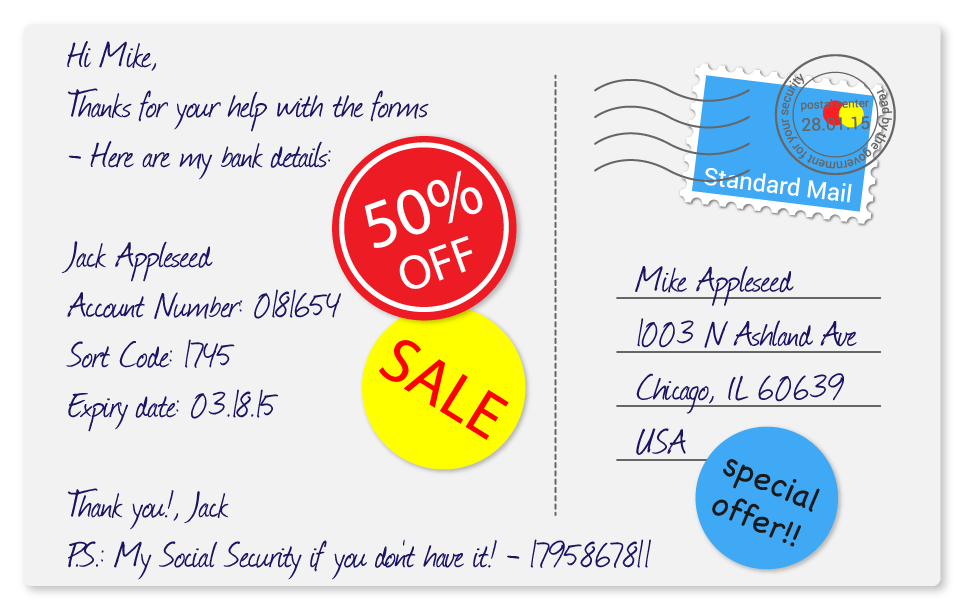
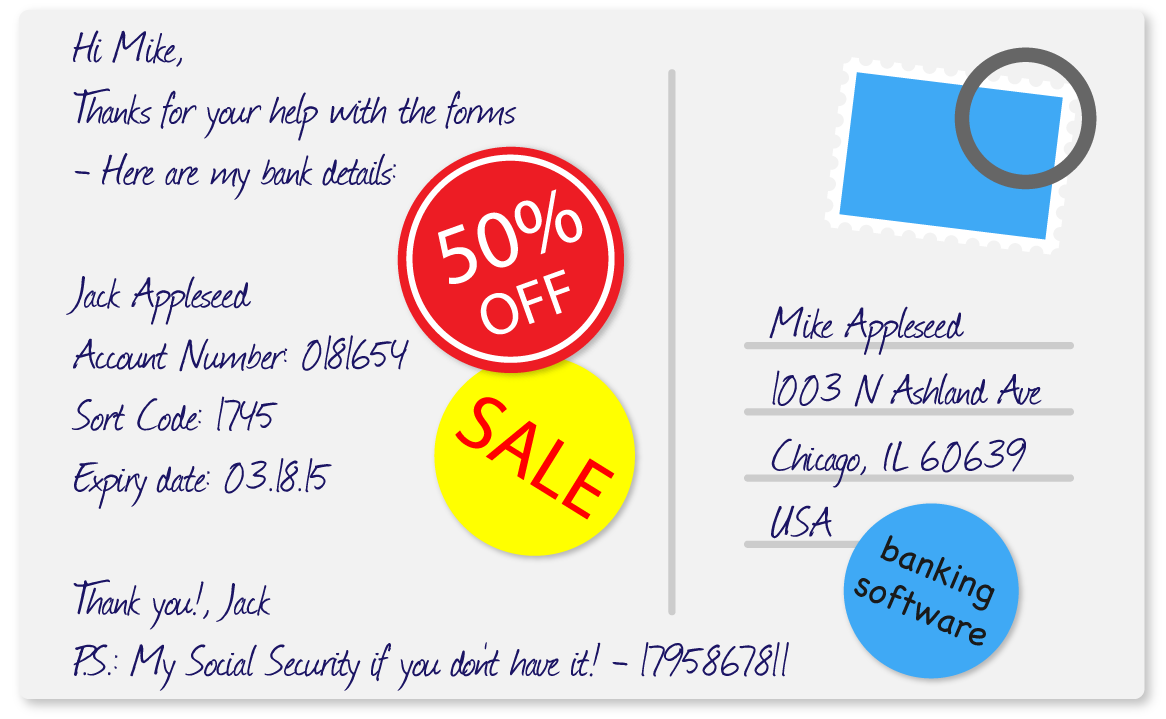
today's commit
changed old way vs new way
changed all of the px enclosings to em.
moved a bit of text from the css file towards the html file

diff --git a/index.html b/index.html
@@ -39,13 +39,13 @@
             <a href="press"><p>"Lavaboom launches Zero-knowledge email provider" - Russia Today</p></a>
           </div>
           <div class="slide">
-            <a href="press">"Lavaboom will die Verschlüsselung von E-Mails erleichtern" - Deutsche Startups</a>
+            <a href="https://press.lavaboom.com">"Lavaboom will die Verschlüsselung von E-Mails erleichtern" - Deutsche Startups</a>
           </div>
           <div class="slide">
-            <a href="press">"Email Encryption: Not So Simple" - Mozilla Open Standard</a>
+            <a href="https://press.lavaboom.com">"Email Encryption: Not So Simple" - Mozilla Open Standard</a>
           </div>
           <div class="slide">
-            <a href="press">"For German, Swiss Privacy Start-Ups, a Post-Snowden Boom" - Wall St. Journal</a>
+            <a href="https://press.lavaboom.com">"For German, Swiss Privacy Start-Ups, a Post-Snowden Boom" - Wall St. Journal</a>
           </div>
     </div>
     <a class="arrow-next col-xs-3"><img class="arrow" src="img/next-arrow.png"></a>
@@ -63,20 +63,17 @@
 
 
 <div class="benefit-container col-xs-12">
-  <div class="benefit-text-div col-xs-12 row">
-    <img alt src="img/ovsn_v.png" class="benefit-img">
+  <div class="benefit-text-div col-xs-12 row"><div class="col-md-4" id="title-h2-white-left">The old way</div><div class="col-md-4"></div><div class="col-md-4" id="title-h2-white-right">The Lavaboom way</div>
+  <img src="img/postcard.png" alt="postcard" class="benefit-img col-md-4" /><img src="img/vs-vertical.png" alt="vs" class="benefit-img col-md-4" /><img src="img/envelope.png" alt="envelope" class="benefit-img col-md-4"/>
   </div>
 </div>
 
 
-<div class="landing-container solution-container col-xs-12">
+<div class="landing-container solution-container col-xs-6">
   <div class="Solution-intro col-xs-12">
     <h1>Encryption made easy</h1>
     <p>The biggest problem we face with asymmetric encryption is that it requires some technical ability to use it effectively. We believe in solving this problem, making encrypting email end-2-end seamless while remaining secure.</p>
     <a href="features"><div class="solution-button clear-blue-button button">View Features</div></a>
-  </div>
-  <div class="solution-div hero-image-div col-xs-12">
-    <img class="solution">
   </div>
 </div>
 

diff --git a/assets/css/style.css b/assets/css/style.css
@@ -751,38 +751,40 @@ li.party-link:hover {
   color:#000;
 }
 
-#title-h2-white {
+#title-h2-white-right {
   text-align: center;
+  position: middle;
   color: #fff;
-  font-size: 16px;
-  text-transform: uppercase;
+  font-size: 2.6em;
+  margin: auto;
   padding-bottom: 10px;
-  font-weight: 500;
+  font-weight: 300;
+  text-align: center;
+}
+#title-h2-white-left {
+	text-align: center;
+	color: #fff;
+	font-size: 2.6em;
+	padding-bottom: 10px;
+	font-weight: 300;
+	text-align: center;
 }
 
 .benefit-img {
   background-size: cover;
   background-repeat: no-repeat;
+  padding-top: 25px ;
   height: auto;
   max-width: 100%;
-}
-
-.benefit-div-1 {
-  background-image: url('../../img/postcard.png');
-}
-.benefit-div-2 {
-  background-image: url('../../img/postcard.png');
 }
 
 /* Solution starts here */
 
 .solution-container {
   background-color: #fff;
+  padding-bottom: 50px;
 }
 
-.solution-intro {
-  height:30%;
-}
 .Solution-intro h1 {
   color: #3bbadc;
   text-align: center;
@@ -804,27 +806,9 @@ li.party-link:hover {
 
 .solution {
   margin: auto;
-  background-image: url("../../img/inbox3.png");
   background-repeat: no-repeat;
-  background-size: 100% auto;
-  border-radius: 3 3 0 0;
-  -webkit-box-shadow: 0px -2px 50px 0px rgba(0,0,0,0.31);
-  -moz-box-shadow: 0px -2px 50px 0px rgba(0,0,0,0.31);
-  box-shadow: 0px -2px 50px 0px rgba(0,0,0,0.31);
-  position: absolute;
-  bottom: 0px;
-  left: 0;
-  right: 0;
-  vertical-align: middle;
   text-align: center;
-
-  -webkit-backface-visibility: hidden;
-  background-size: 100%;
   width: 85%;
-  border: none;
-  height: 100%;
-
-  /* A mistake plus keleven gets you home by seven */
 }
 
 
@@ -882,7 +866,7 @@ li.party-link:hover {
 
 .product-container {
   background-color: #fff;
-  padding-bottom: 100px;
+  padding: 50px;
 }
 
 .product-benefit {
